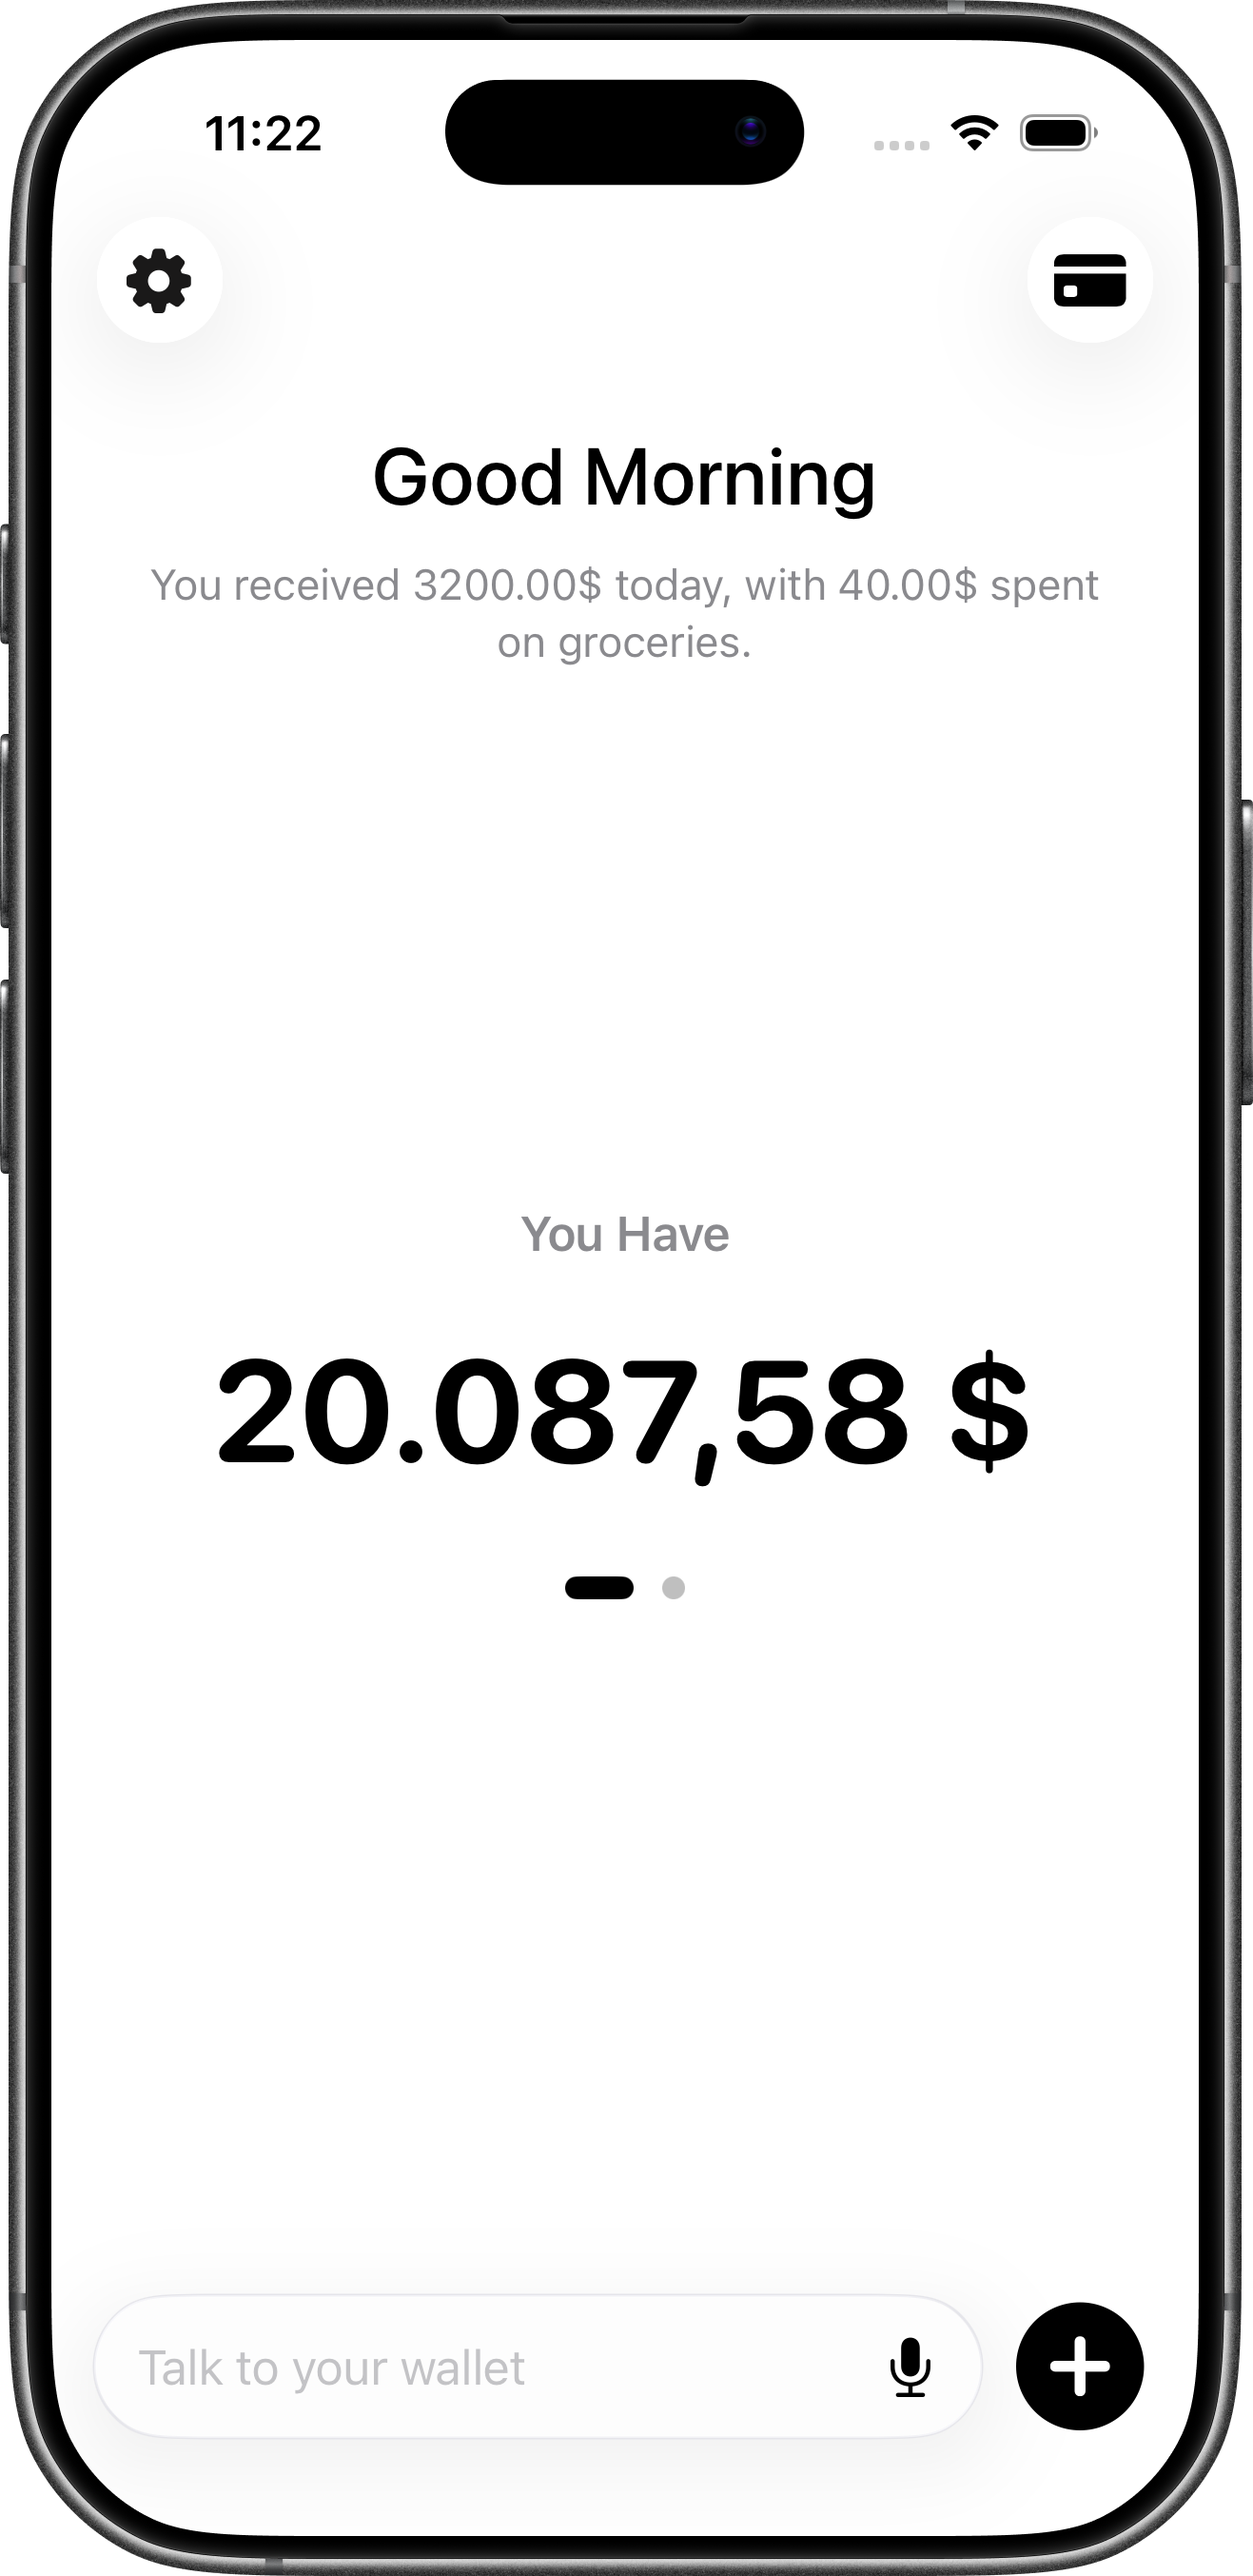
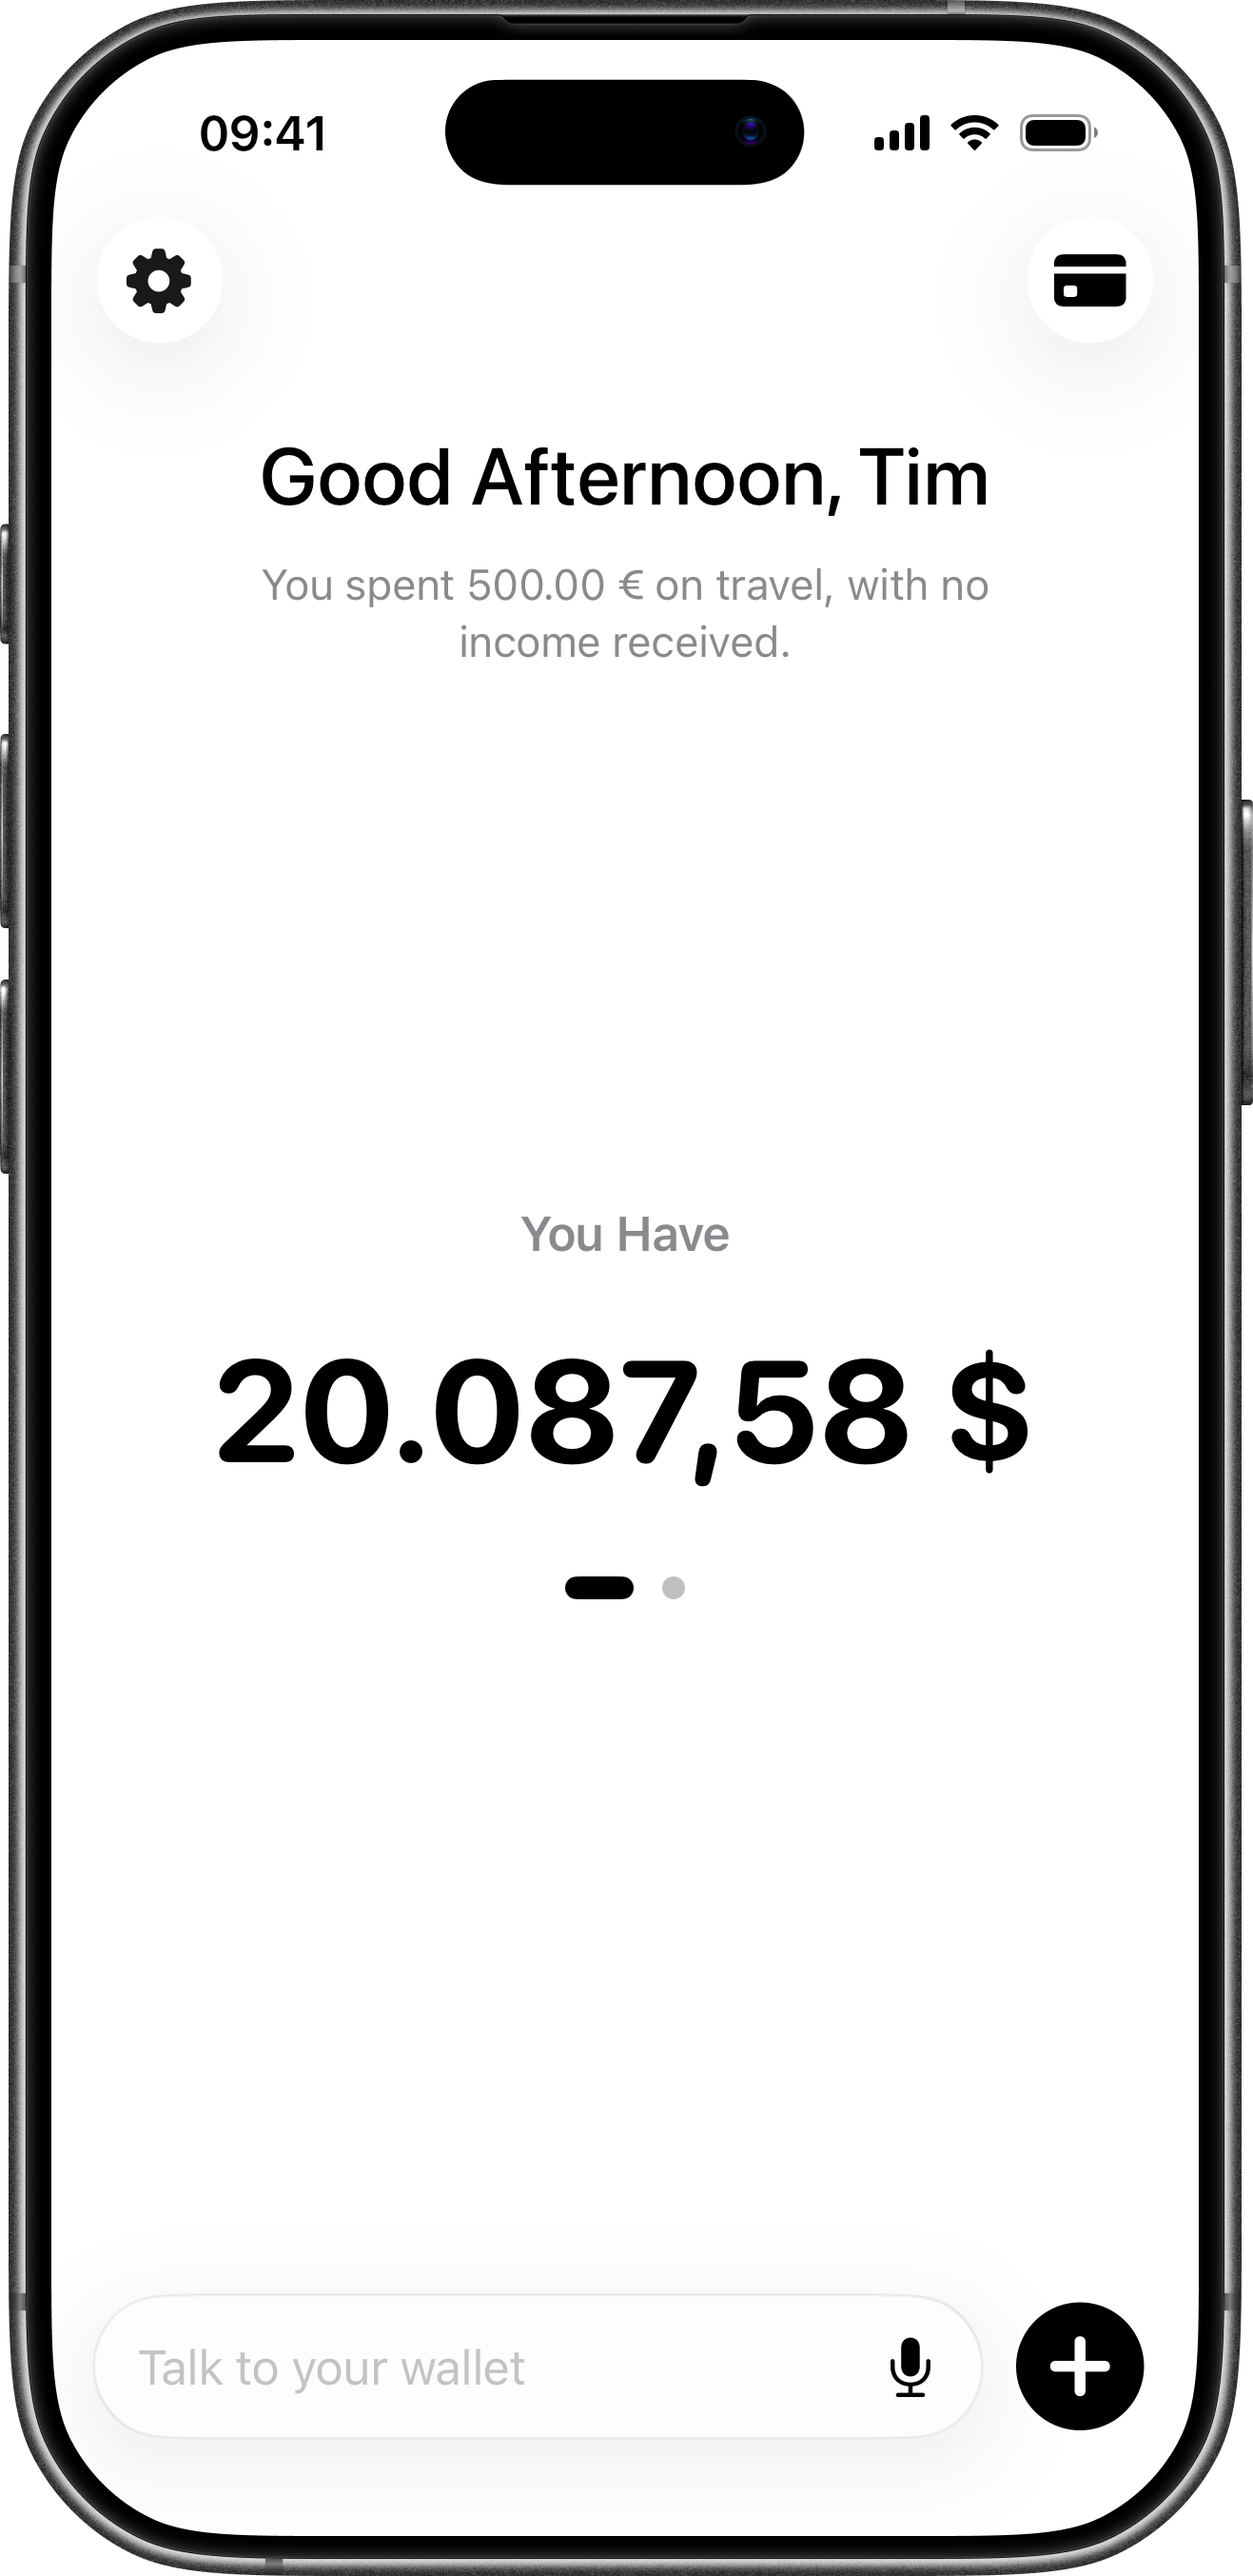
Updated Monei page

diff --git a/monei/index.html b/monei/index.html
@@ -216,7 +216,7 @@
           </p>
 
 		  <p data-delay style="--delay: 2.0;">
-            <i>Launching for everyone by the end of the year.</i>
+            <i>Launching for everyone by Christmas 2025 🎅🏻</i>
           </p>
 
           <a href="https://alessiorubicini.notion.site/296a48513bd580c48c7dd3a50b8206db?pvs=105" target="_blank" class="waitlist-button" data-delay style="--delay: 2.4;">
